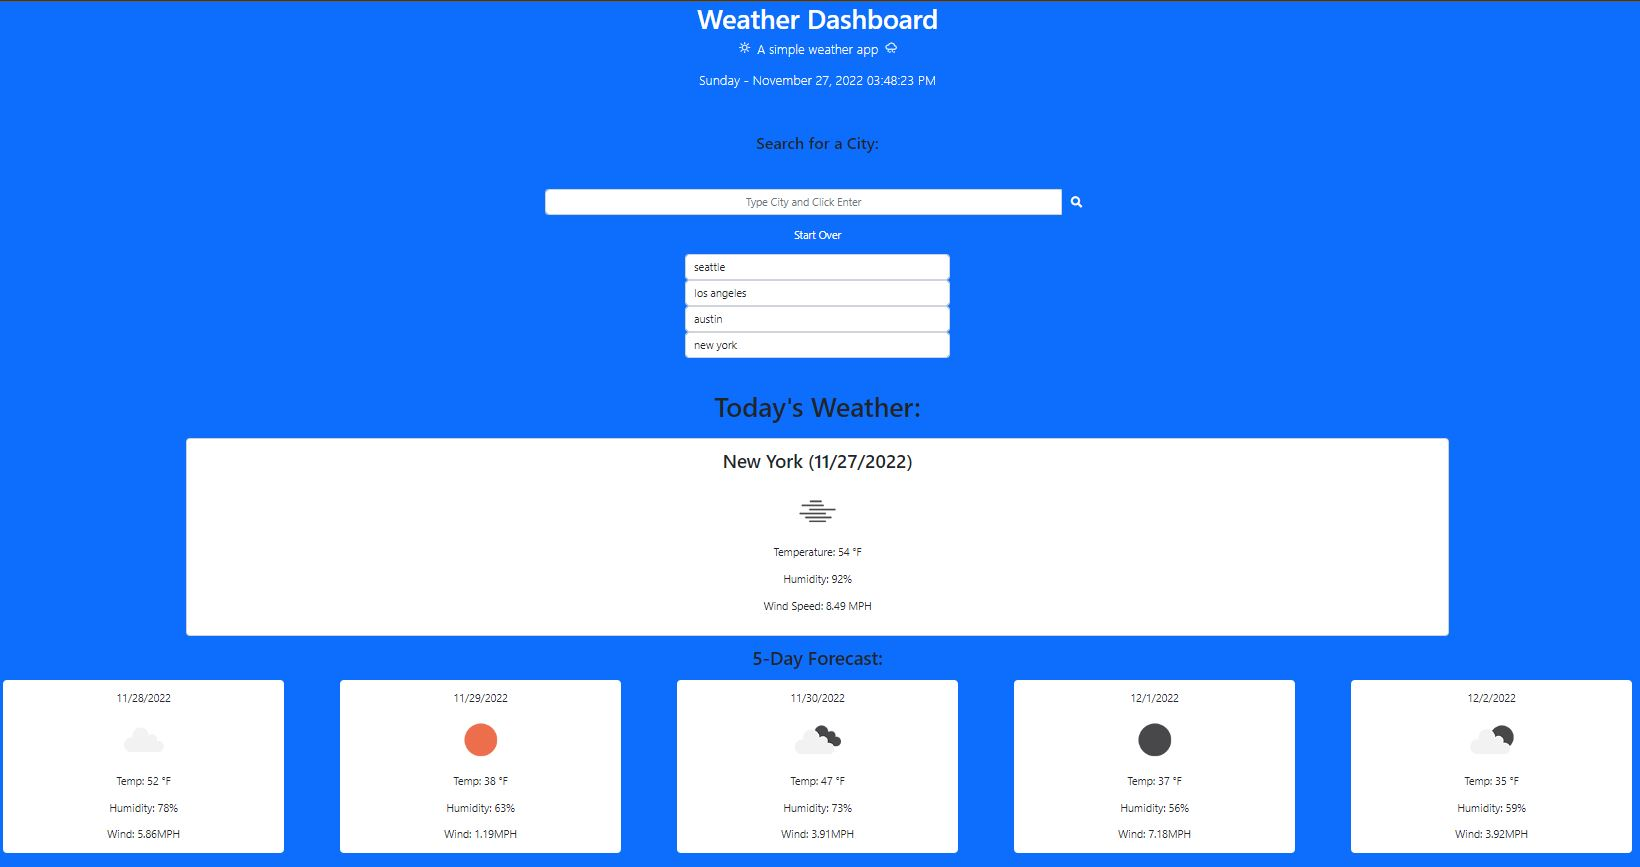
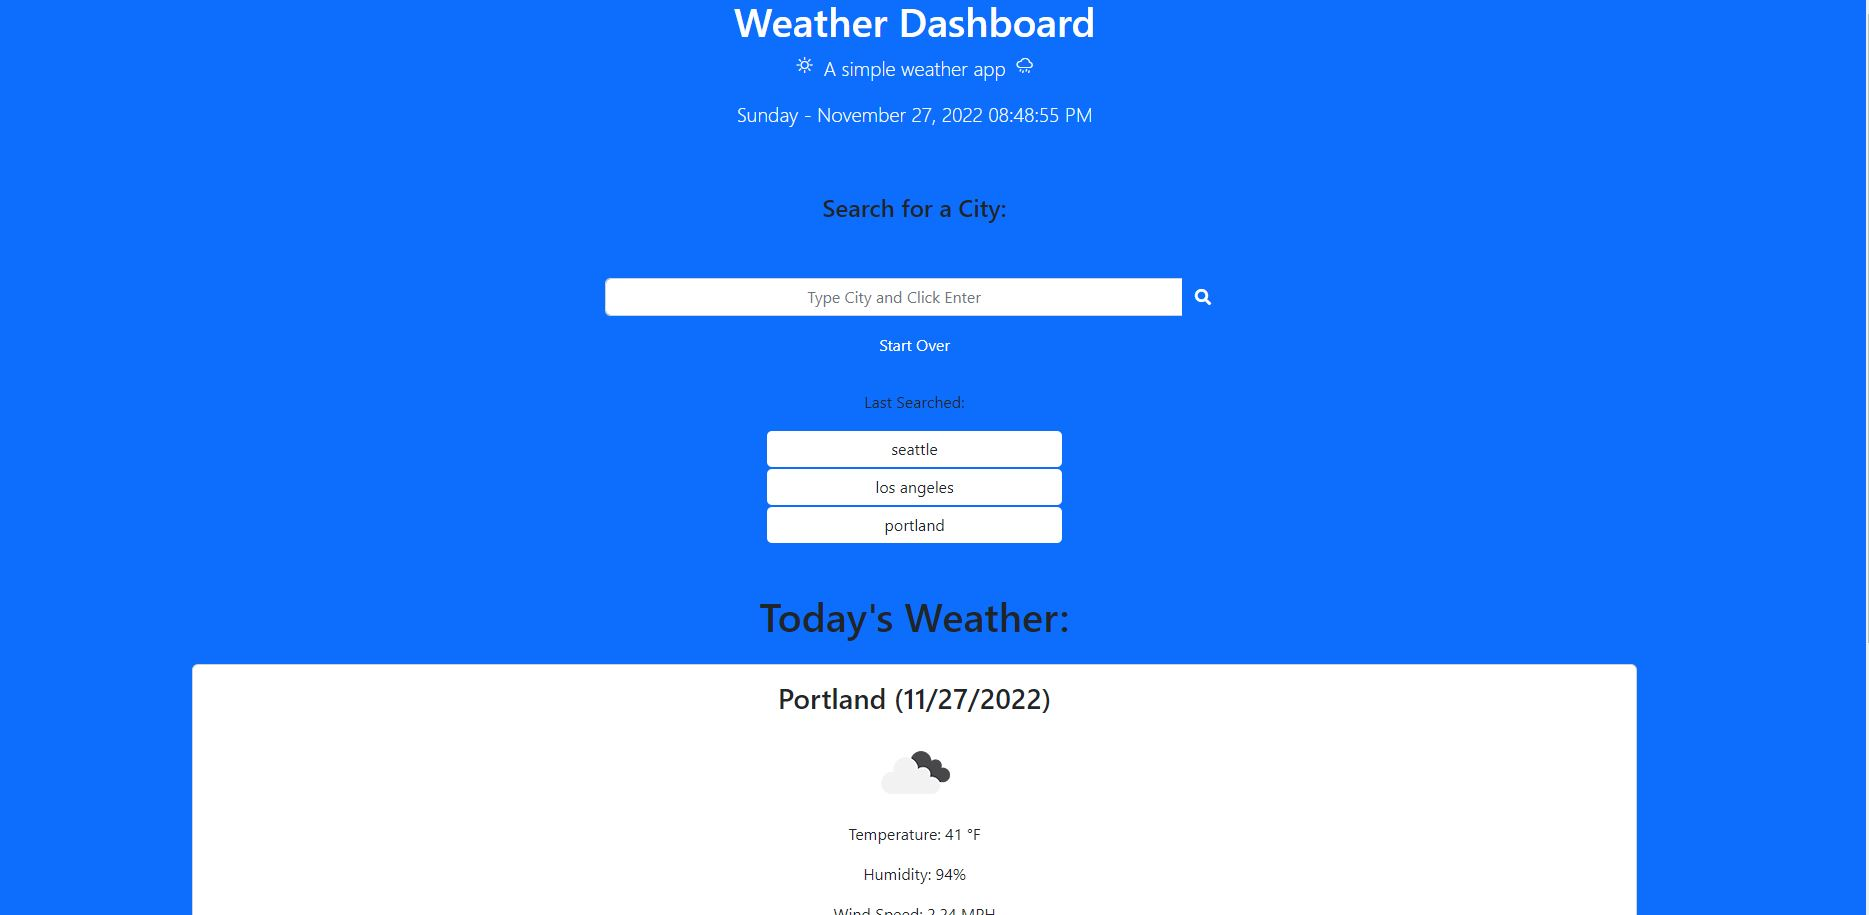
fixing script to match variables adjusted

diff --git a/assets/script.js b/assets/script.js
@@ -7,19 +7,21 @@
 $(function () {
 
     //ID elements
-    const cityEl = document.getElementById("enterCity");
-    const searchEl = document.getElementById("searchBtn");
-    const clearEl = document.getElementById("newSearch");
-    const nameEl = document.getElementById("city-name");
-    const currentPicEl = document.getElementById("current-pic");
-    const currentTempEl = document.getElementById("temperature");
-    const currentHumidityEl = document.getElementById("humidity");
-    const currentWindEl = document.getElementById("wind-speed");
-    const historyEl = document.getElementById("history");
-
+    const CITYENTER = document.getElementById("enterCity");
+    const SEARCHBTN = document.getElementById("searchBtn");
+    const NEWSEARCH = document.getElementById("newSearch");
+    const NAMECITY = document.getElementById("cityName");
+    const CURRENTPIC = document.getElementById("weatherPic");
+    const CURRENTTEMPERATURE = document.getElementById("temperature");
+    const CURRENTHUMIDITY = document.getElementById("humidity");
+    const CURRENTWIND = document.getElementById("wind");
+    const SAVEDSEARCH = document.getElementById("searchedLast");
+    
     //variables
-    var fivedayEl = document.getElementById("fiveday-header");
-    var todayweatherEl = document.getElementById("today-weather");
+    var fiveDay = document.getElementById("fiveDay");
+    var todayWeather = document.getElementById("todayWeather");
+    var todayWeatherTitle = document.getElementById("TodayWeatherTitle");
+    var lastSearchedTitle = document.getElementById("lastSearchedTitle");
     let searchHistory = JSON.parse(localStorage.getItem("search")) || [];
 
     //API - 60 calls per minute max
@@ -29,104 +31,107 @@ $(function () {
         $("#currentDay").text(dayjs().format("dddd - MMMM D, YYYY hh:mm:ss A"));
       }
 
-      function getWeather(cityName) {
-        let queryURL = "https://api.openweathermap.org/data/2.5/weather?q=" + cityName + "&appid=" + APIKEY;
-        axios.get(queryURL)
+      function setWeather(cityName) {
+        let weatherURL = "https://api.openweathermap.org/data/2.5/weather?q=" + cityName + "&appid=" + APIKEY;
+        axios.get(weatherURL)
             .then(function (response) {
 
-                todayweatherEl.classList.remove("d-none");
+                todayWeather.classList.remove("d-none");
+                todayWeatherTitle.classList.remove("d-none");
+                lastSearchedTitle.classList.remove("d-none");
 
-                // Parse response to display current weather
-                const currentDate = new Date(response.data.dt * 1000);
-                const day = currentDate.getDate();
-                const month = currentDate.getMonth() + 1;
-                const year = currentDate.getFullYear();
-                nameEl.innerHTML = response.data.name + " (" + month + "/" + day + "/" + year + ") ";
+                // Parse API to display current weather
+                const CURRENTDATE = new Date(response.data.dt * 1000);
+                const SETDAY = CURRENTDATE.getDate();
+                const SETMONTH = CURRENTDATE.getMonth() + 1;
+                const SETYEAR = CURRENTDATE.getFullYear();
+                NAMECITY.innerHTML = response.data.name + " (" + SETMONTH + "/" + SETDAY + "/" + SETYEAR + ") ";
                 let weatherPic = response.data.weather[0].icon;
-                currentPicEl.setAttribute("src", "https://openweathermap.org/img/wn/" + weatherPic + "@2x.png");
-                currentPicEl.setAttribute("alt", response.data.weather[0].description);
-                currentTempEl.innerHTML = "Temperature: " + k2f(response.data.main.temp) + " &#176F";
-                currentHumidityEl.innerHTML = "Humidity: " + response.data.main.humidity + "%";
-                currentWindEl.innerHTML = "Wind Speed: " + response.data.wind.speed + " MPH";
+                CURRENTPIC.setAttribute("src", "https://openweathermap.org/img/wn/" + weatherPic + "@2x.png");
+                CURRENTPIC.setAttribute("alt", response.data.weather[0].description);
+                CURRENTTEMPERATURE.innerHTML = "Temperature: " + kelvinFahrenheit(response.data.main.temp) + " &#176F";
+                CURRENTHUMIDITY.innerHTML = "Humidity: " + response.data.main.humidity + "%";
+                CURRENTWIND.innerHTML = "Wind Speed: " + response.data.wind.speed + " MPH";
                 
-                // Get 5 day forecast for this city
+                // Get 5 day forecast
                 let cityID = response.data.id;
-                let forecastQueryURL = "https://api.openweathermap.org/data/2.5/forecast?id=" + cityID + "&appid=" + APIKEY;
-                axios.get(forecastQueryURL)
+                let forecastFiveDayURL = "https://api.openweathermap.org/data/2.5/forecast?id=" + cityID + "&appid=" + APIKEY;
+                axios.get(forecastFiveDayURL)
                     .then(function (response) {
-                        fivedayEl.classList.remove("d-none");
+                        fiveDay.classList.remove("d-none");
                         
-                        //  Parse response to display forecast for next 5 days
-                        const forecastEls = document.querySelectorAll(".forecast");
-                        for (i = 0; i < forecastEls.length; i++) {
-                            forecastEls[i].innerHTML = "";
-                            const forecastIndex = i * 8 + 4;
-                            const forecastDate = new Date(response.data.list[forecastIndex].dt * 1000);
-                            const forecastDay = forecastDate.getDate();
-                            const forecastMonth = forecastDate.getMonth() + 1;
-                            const forecastYear = forecastDate.getFullYear();
-                            const forecastDateEl = document.createElement("p");
-                            forecastDateEl.setAttribute("class", "mt-3 mb-0 forecast-date");
-                            forecastDateEl.innerHTML = forecastMonth + "/" + forecastDay + "/" + forecastYear;
-                            forecastEls[i].append(forecastDateEl);
+                        //  Parse API to display forecast for next 5 days
+                        const FORECASTCARDS = document.querySelectorAll(".forecast");
+                        for (i = 0; i < FORECASTCARDS.length; i++) {
+                            FORECASTCARDS[i].innerHTML = "";
+                            const FORECASTINDEX = i * 8 + 4;
+                            const FORECASTDATE = new Date(response.data.list[FORECASTINDEX].dt * 1000);
+                            const FORECASTDAY = FORECASTDATE.getDate();
+                            const FORECASTMONTH = FORECASTDATE.getMonth() + 1;
+                            const FORECASTYEAR = FORECASTDATE.getFullYear();
+                            const FORCASTDATECOMBINED = document.createElement("p");
+                            FORCASTDATECOMBINED.setAttribute("class", "mt-3 mb-0 forecast-date");
+                            FORCASTDATECOMBINED.innerHTML = FORECASTMONTH + "/" + FORECASTDAY + "/" + FORECASTYEAR;
+                            FORECASTCARDS[i].append(FORCASTDATECOMBINED);
 
                             // Icon for current weather
-                            const forecastWeatherEl = document.createElement("img");
-                            forecastWeatherEl.setAttribute("src", "https://openweathermap.org/img/wn/" + response.data.list[forecastIndex].weather[0].icon + "@2x.png");
-                            forecastWeatherEl.setAttribute("alt", response.data.list[forecastIndex].weather[0].description);
-                            forecastEls[i].append(forecastWeatherEl);
-                            const forecastTempEl = document.createElement("p");
-                            forecastTempEl.innerHTML = "Temp: " + k2f(response.data.list[forecastIndex].main.temp) + " &#176F";
-                            forecastEls[i].append(forecastTempEl);
-                            const forecastHumidityEl = document.createElement("p");
-                            forecastHumidityEl.innerHTML = "Humidity: " + response.data.list[forecastIndex].main.humidity + "%";
-                            forecastEls[i].append(forecastHumidityEl);
-                            const forecastWindEl = document.createElement("p");
-                            forecastWindEl.innerHTML = "Wind: " + response.data.list[forecastIndex].wind.speed + "MPH";
-                            forecastEls[i].append(forecastWindEl);
+                            const WEATHERICON = document.createElement("img");
+                            WEATHERICON.setAttribute("src", "https://openweathermap.org/img/wn/" + response.data.list[FORECASTINDEX].weather[0].icon + "@2x.png");
+                            WEATHERICON.setAttribute("alt", response.data.list[FORECASTINDEX].weather[0].description);
+                            FORECASTCARDS[i].append(WEATHERICON);
+                            const FORECASTTEMP = document.createElement("p");
+                            FORECASTTEMP.innerHTML = "Temp: " + kelvinFahrenheit(response.data.list[FORECASTINDEX].main.temp) + " &#176F";
+                            FORECASTCARDS[i].append(FORECASTTEMP);
+                            const FORECASTHUMIDITY = document.createElement("p");
+                            FORECASTHUMIDITY.innerHTML = "Humidity: " + response.data.list[FORECASTINDEX].main.humidity + "%";
+                            FORECASTCARDS[i].append(FORECASTHUMIDITY);
+                            const FORECASTWIND = document.createElement("p");
+                            FORECASTWIND.innerHTML = "Wind: " + response.data.list[FORECASTINDEX].wind.speed + "MPH";
+                            FORECASTCARDS[i].append(FORECASTWIND);
                         }
                     })
             });
     }
 
-    // Get history from local storage if any
-    searchEl.addEventListener("click", function () {
-        const searchTerm = cityEl.value;
-        getWeather(searchTerm);
-        searchHistory.push(searchTerm);
+    // Get history from local storage
+    SEARCHBTN.addEventListener("click", function () {
+        const SAVEDSEARCH = CITYENTER.value;
+        setWeather(SAVEDSEARCH);
+        searchHistory.push(SAVEDSEARCH);
         localStorage.setItem("search", JSON.stringify(searchHistory));
-        renderSearchHistory();
+        setSearchHistory();
     })
 
     // Clear History button
-    clearEl.addEventListener("click", function () {
+    NEWSEARCH.addEventListener("click", function () {
         localStorage.clear();
         searchHistory = [];
-        renderSearchHistory();
+        setSearchHistory();
+        location.reload();
     })
 
-    function k2f(K) {
+    function kelvinFahrenheit(K) {
         return Math.floor((K - 273.15) * 1.8 + 32);
     }
 
-    function renderSearchHistory() {
-        historyEl.innerHTML = "";
+    function setSearchHistory() {
+        SAVEDSEARCH.innerHTML = "";
         for (let i = 0; i < searchHistory.length; i++) {
-            const historyItem = document.createElement("input");
-            historyItem.setAttribute("type", "text");
-            historyItem.setAttribute("readonly", true);
-            historyItem.setAttribute("class", "form-control d-block bg-white");
-            historyItem.setAttribute("value", searchHistory[i]);
-            historyItem.addEventListener("click", function () {
-                getWeather(historyItem.value);
+            const SAVEDITEM = document.createElement("input");
+            SAVEDITEM.setAttribute("type", "text");
+            SAVEDITEM.setAttribute("readonly", true);
+            SAVEDITEM.setAttribute("class", "form-control d-block bg-white btn");
+            SAVEDITEM.setAttribute("value", searchHistory[i]);
+            SAVEDITEM.addEventListener("click", function () {
+                setWeather(SAVEDITEM.value);
             })
-            historyEl.append(historyItem);
+            SAVEDSEARCH.append(SAVEDITEM);
         }
     }
 
-    renderSearchHistory();
+    setSearchHistory();
     if (searchHistory.length > 0) {
-        getWeather(searchHistory[searchHistory.length - 1]);
+        setWeather(searchHistory[searchHistory.length - 1]);
     }
 
       setInterval(displayTimeTop, 1000);

diff --git a/index.html b/index.html
@@ -59,29 +59,30 @@
             <div>
             <button class="btn col-4 btn-primary pb-3 pt-3" type="button" id="newSearch">Start Over</button>
             </div>
-            <form class="col-6 col-sm-4 col-lg-2" id="history"></form>
+            <p class="pt-3 d-none" id="lastSearchedTitle">Last Searched:</p>
+            <form class="col-6 col-sm-4 col-lg-2" id="searchedLast"></form>
         </div>
      </div>
   </div>
 
   <!-- Today's Weather Card -->
   <div class="col-12">
-      <h1 class="text-center">Today's Weather:</h1>
+      <h1 class="text-center d-none" id="TodayWeatherTitle">Today's Weather:</h1>
     <div class="row justify-content-center">
-        <div class="col-12 col-lg-9 card m-3 d-none" id="today-weather">
+        <div class="col-12 col-lg-9 card m-3 d-none" id="todayWeather">
             <div class="card-body">
-                <h3 id="city-name" class="city-name text-center"></h3>
-                <img id="current-pic" class = "rounded mx-auto d-block" alt="">
+                <h3 id="cityName" class="text-center"></h3>
+                <img id="weatherPic" class = "rounded mx-auto d-block" alt="">
                 <p class="text-center" id="temperature"></p>
                 <p class="text-center" id="humidity"></p>
-                <p class="text-center" id="wind-speed"></p>
+                <p class="text-center" id="wind"></p>
             </div>
         </div>
     </div>
   </div>
   
     <!-- Five Day Weather Cards -->
-    <div class="row d-none" id="fiveday-header">
+    <div class="row d-none" id="fiveDay">
         <div class="col-12">
             <h3 class="text-center">5-Day Forecast:</h3>
         </div>
